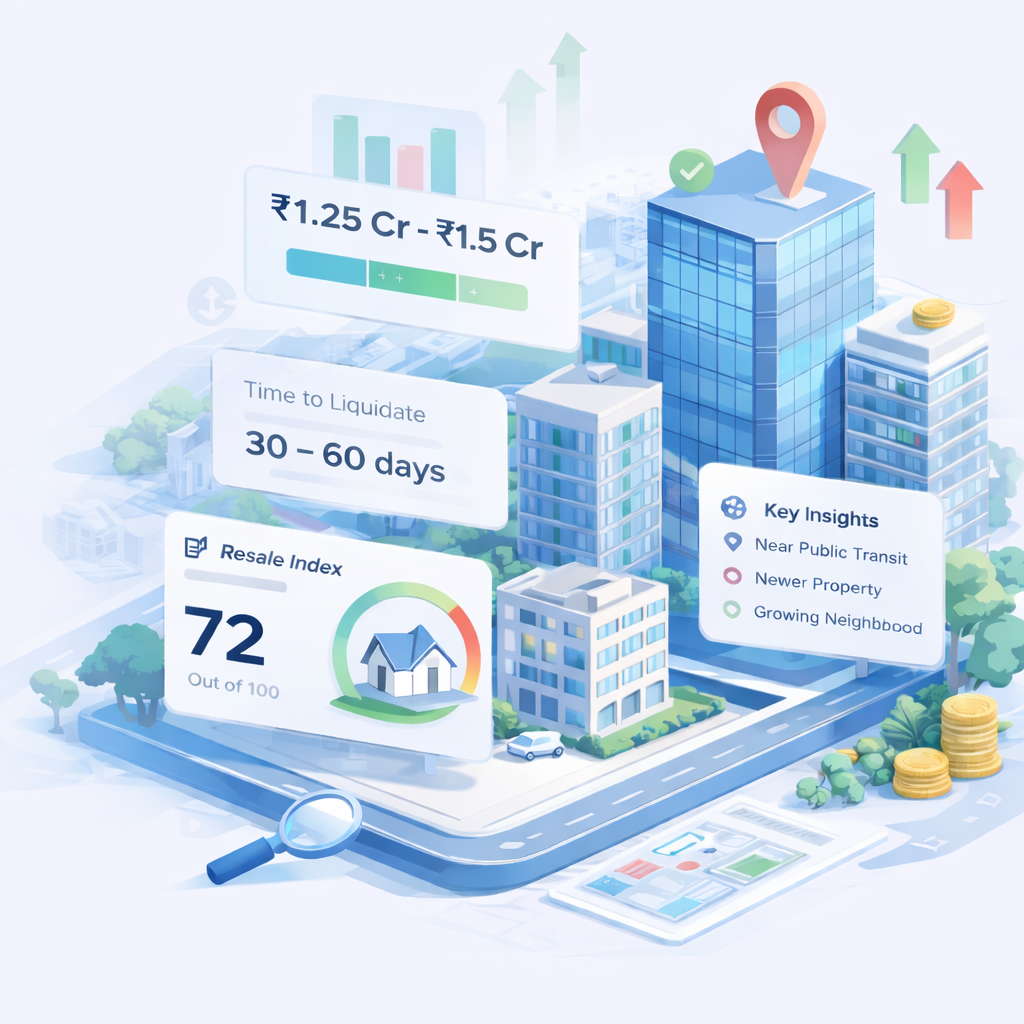
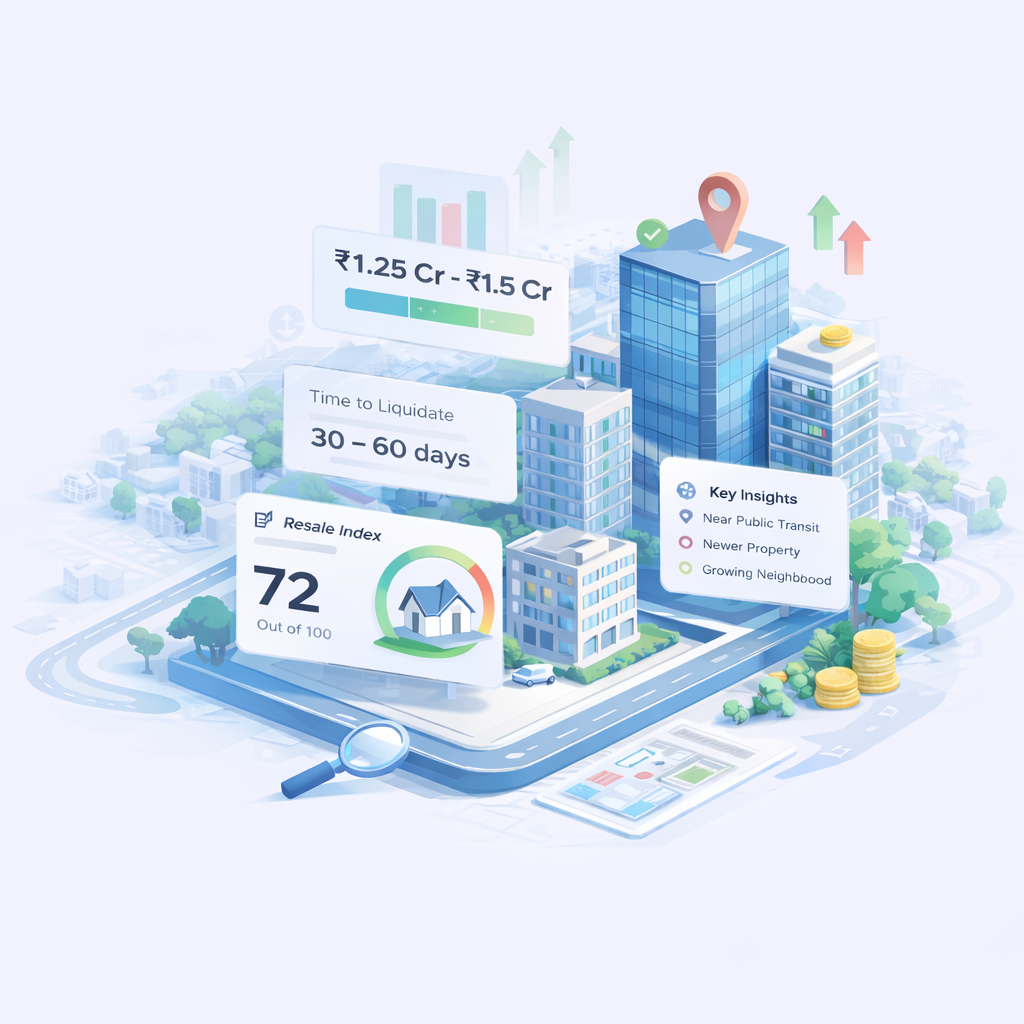
feat: implement responsive Hero section with stats grid and visual illustration

diff --git a/src/components/Hero.tsx b/src/components/Hero.tsx
@@ -2,7 +2,6 @@
 
 import { Check, MapPin, Target, Wallet, Calendar } from "lucide-react";
 import styles from "./Hero.module.css";
-import Image from "next/image";
 
 export default function Hero() {
   return (
@@ -41,14 +40,13 @@ export default function Hero() {
 
           <div className={styles.visualContainer}>
             <div style={{ position: 'relative', width: '100%', display: 'flex', justifyContent: 'center' }}>
-              <Image 
+              <img 
                 src="/images/hero-image.png" 
                 alt="AI Valuator Intelligence Illustration" 
                 width={900}
                 height={800}
                 className={styles.illustration}
                 style={{ objectPosition: 'center' }}
-                priority
               />
             </div>
           </div>

diff --git a/src/components/Hero.module.css b/src/components/Hero.module.css
@@ -111,7 +111,7 @@
 }
 
 .illustration {
-  width: 130%; /* Even larger to allow for aggressive edge fading */
+  width: 230%; /* Zoomed out from 130% */
   height: auto;
   max-width: none;
   /* Aggressive radial mask to fade out all edges (top, bottom, left, right) */
